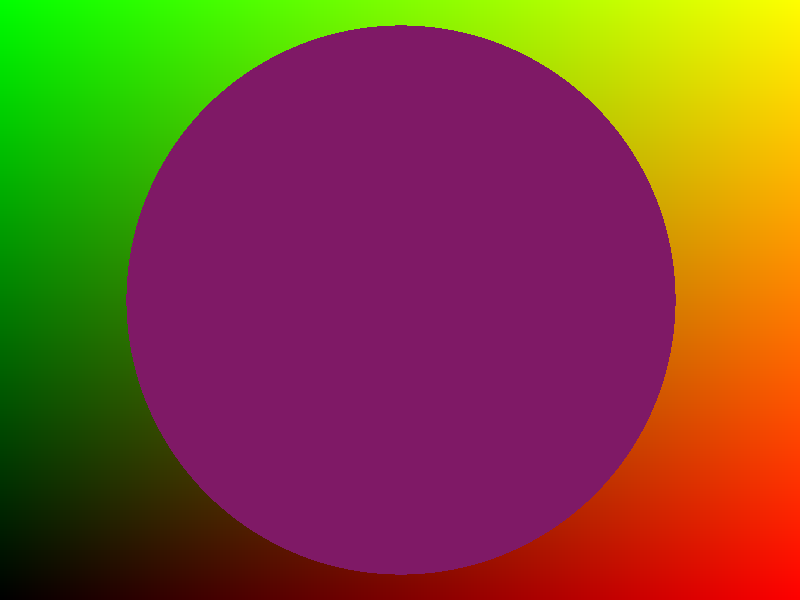
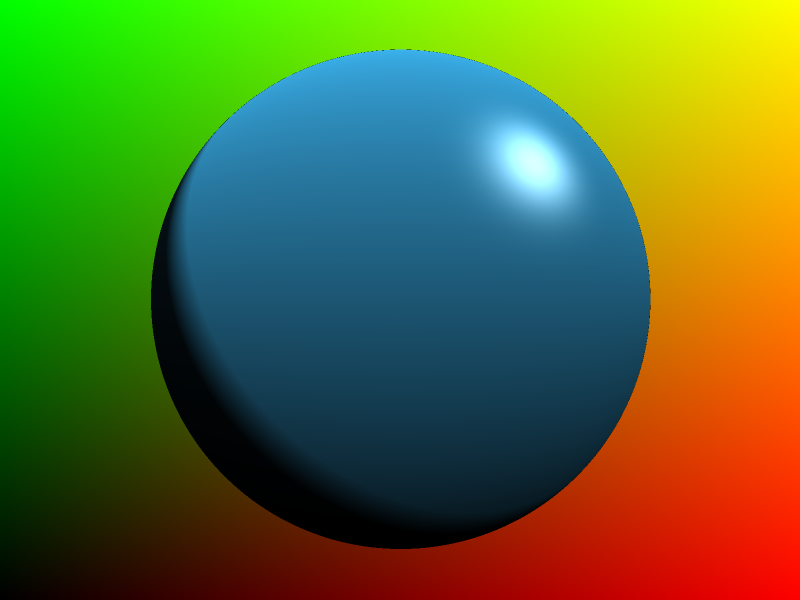
Point lights and phong renderer

diff --git a/forgedthoughts/src/ft.rs b/forgedthoughts/src/ft.rs
@@ -1,10 +1,11 @@
 pub use crate::prelude::*;
 
-pub use rhai::{Engine, Scope};
+pub use rhai::{Engine, Scope, CallFnOptions};
 pub mod fx;
 pub mod sdf;
 pub mod material;
 pub mod settings;
+pub mod lights;
 
 use rayon::{slice::ParallelSliceMut, iter::{IndexedParallelIterator, ParallelIterator}};
 
@@ -34,6 +35,7 @@ impl FT {
 
         if ast.is_ok() {
             if let Some(mut ast) = ast.ok() {
+
                 let rc = engine.eval_ast_with_scope::<rhai::Dynamic>(&mut scope, &mut ast);
 
                 let mut settings = Settings::new();
@@ -47,6 +49,8 @@ impl FT {
                 if let Some(_bc) = engine.call_fn::<F3>(&mut scope, &ast, "background", ( ( F2::new(0.0, 0.0 ) ), ) ).ok() {
                     settings.background_fn = true;
                 }
+
+                ast.clear_statements();
 
                 if rc.is_ok() {
                     Ok(FTContext {
@@ -72,7 +76,9 @@ impl FT {
 
         let [width, height] = buffer.size;
 
+        // Collect sdfs and lights
         let mut sdfs : Vec<SDF> = vec![];
+        let mut lights : Vec<Light> = vec![];
 
         let iter = ctx.scope.iter();
 
@@ -80,6 +86,11 @@ impl FT {
             if val.2.type_name().ends_with("::SDF") {
                 if let Some(s) =ctx. scope.get(val.0) {
                     sdfs.push(s.clone().cast::<SDF>());
+                }
+            } else
+            if val.2.type_name().ends_with("::Light") {
+                if let Some(s) =ctx. scope.get(val.0) {
+                    lights.push(s.clone().cast::<Light>());
                 }
             }
         }
@@ -105,7 +116,7 @@ impl FT {
                     let xx = x as F / w;
                     let yy = y as F / h;
 
-                    let coord = F2::new(xx, 1.0 - yy);
+                    let coord = F2::new(xx, yy);
 
                     let mut total = [0.0, 0.0, 0.0, 0.0];
 
@@ -125,20 +136,47 @@ impl FT {
                                 let mut t = dist;
                                 let t_max = 5.0;
 
-                                for _i in 0..24 {
+                                for _i in 0..120 {
                                     let p = ro + rd.mult_f(&t);
                                     let d = s.distance(p);
-                                    if d.abs() < 0.1 {
-                                        //let n = s.normal(p);
-                                        color[0] = s.material.rgb.x;
-                                        color[1] = s.material.rgb.y;
-                                        color[2] = s.material.rgb.z;
+                                    if d.abs() < 0.001 {
+                                        let n = s.normal(p);
+                                        for l in &lights {
+                                            let light_dir = l.position - p;
+
+                                            // https://www.shadertoy.com/view/XlXGDj
+                                            let occ = 0.5 + 0.5 * n.y;
+                                            let amb = occ.clamp(0.0, 1.0);
+                                            let dif = n.dot(&light_dir).clamp(0.0, 1.0);
+
+                                            let h = (F3::new(-rd.x, -rd.y, -rd.z) + light_dir).normalize();
+                                            let spe = h.dot(&n).clamp(0.0, 1.0).powf(64.0);
+
+                                            let ambient_color = F3::new(0.05, 0.15, 0.2);
+
+                                            // Ambient
+                                            color[0] += ambient_color.x * amb * occ;
+                                            color[1] += ambient_color.y * amb * occ;
+                                            color[2] += ambient_color.z * amb * occ;
+
+                                            // Diffuse
+                                            color[0] += s.material.rgb.x * dif * l.intensity * occ;
+                                            color[1] += s.material.rgb.y * dif * l.intensity * occ;
+                                            color[2] += s.material.rgb.z * dif * l.intensity * occ;
+
+                                            // Specular
+                                            color[0] += l.rgb.x * dif * spe * occ;
+                                            color[1] += l.rgb.y * dif * spe * occ;
+                                            color[2] += l.rgb.z * dif * spe * occ;
+                                        }
                                         break;
                                     } else
                                     if t > t_max {
 
                                         if ctx.settings.background_fn {
-                                            let mut s = ctx.scope.clone_visible();
+
+                                            let mut s = Scope::new();
+
                                             if let Some(bc) = ctx.engine.call_fn::<F3>(&mut s, &ctx.ast, "background", ( ( F2::new(xx, yy ) ), ) ).ok() {
                                                 color[0] = bc.x;
                                                 color[1] = bc.y;

diff --git a/forgedthoughts/src/ft/lights.rs b/forgedthoughts/src/ft/lights.rs
@@ -1,0 +1,65 @@
+use crate::prelude::*;
+
+#[derive(PartialEq, Debug, Clone)]
+pub enum LightType {
+    Point,
+}
+
+/// SDF
+#[derive(PartialEq, Debug, Clone)]
+pub struct Light {
+    pub light_type          : LightType,
+    pub position            : F3,
+    pub radius              : F,
+
+    pub rgb                 : F3,
+    pub intensity           : F,
+}
+
+impl Light {
+
+    pub fn new_point_light() -> Self {
+        Self {
+            light_type      : LightType::Point,
+            position        : F3::zeros(),
+            radius          : 1.0,
+
+            rgb             : F3::new(1.0, 1.0, 1.0),
+            intensity       : 1.0,
+        }
+    }
+
+    // --------- Getter / Setter
+
+    pub fn get_position(&mut self) -> F3 {
+        self.position
+    }
+
+    pub fn set_position(&mut self, new_val: F3) {
+        self.position = new_val;
+    }
+
+    pub fn get_rgb(&mut self) -> F3 {
+        self.rgb
+    }
+
+    pub fn set_rgb(&mut self, new_val: F3) {
+        self.rgb = new_val;
+    }
+
+    pub fn get_radius(&mut self) -> F {
+        self.radius
+    }
+
+    pub fn set_radius(&mut self, new_val: F) {
+        self.radius = new_val;
+    }
+
+    pub fn get_intensity(&mut self) -> F {
+        self.intensity
+    }
+
+    pub fn set_intensity(&mut self, new_val: F) {
+        self.intensity = new_val;
+    }
+}

diff --git a/forgedthoughts/src/script.rs b/forgedthoughts/src/script.rs
@@ -71,6 +71,16 @@ pub fn create_engine() -> Engine {
         .register_fn("Material", Material::new)
         .register_get_set("rgb", Material::get_rgb, Material::set_rgb);
 
+    // -- Light Types
+
+    engine.register_type_with_name::<Light>("PointLight")
+        .register_fn("PointLight", Light::new_point_light)
+        .register_get_set("rgb", Light::get_rgb, Light::set_rgb)
+        .register_get_set("position", Light::get_position, Light::set_position)
+        .register_get_set("radius", Light::get_radius, Light::set_radius)
+        .register_get_set("intensity", Light::get_intensity, Light::set_intensity);
+
+
     // -- SDF Types
 
     engine.register_type_with_name::<SDF>("Sphere")

diff --git a/forgedthoughts/src/ft/sdf.rs b/forgedthoughts/src/ft/sdf.rs
@@ -77,34 +77,4 @@ impl SDF {
         self.radius = new_val;
     }
 
-    /*
-    pub fn new_1(x: F) -> Self {
-        Self {
-            x               : x,
-            y               : x,
-        }
-    }
-
-    pub fn new_2(x: F, y: F) -> Self {
-        Self {
-            x,
-            y,
-        }
-    }
-
-    pub fn get_x(&mut self) -> F {
-        self.x
-    }
-
-    pub fn set_x(&mut self, new_val: F) {
-        self.x = new_val;
-    }
-
-    pub fn get_y(&mut self) -> F {
-        self.y
-    }
-
-    pub fn set_y(&mut self, new_val: F) {
-        self.y = new_val;
-    }*/
 }

diff --git a/forgedthoughts/src/ft/fx.rs b/forgedthoughts/src/ft/fx.rs
@@ -212,6 +212,10 @@ impl F3 {
         (self.x * self.x + self.y * self.y + self.z * self.z).sqrt()
     }
 
+    pub fn dot(&self, other: &F3) -> F {
+        self.x * other.x + self.y * other.y + self.z * other.z
+    }
+
     pub fn cross(&self, other: &F3) -> F3 {
         F3::new(self.y * other.z - self.z * other.y,
             self.z * other.x - self.x * other.z,

diff --git a/forgedthoughts/src/lib.rs b/forgedthoughts/src/lib.rs
@@ -23,6 +23,7 @@ pub mod prelude {
     pub use crate::ft::sdf::SDF;
     pub use crate::ft::material::Material;
     pub use crate::ft::settings::Settings;
+    pub use crate::ft::lights::Light;
 
     pub use crate::script::FTContext;
 
